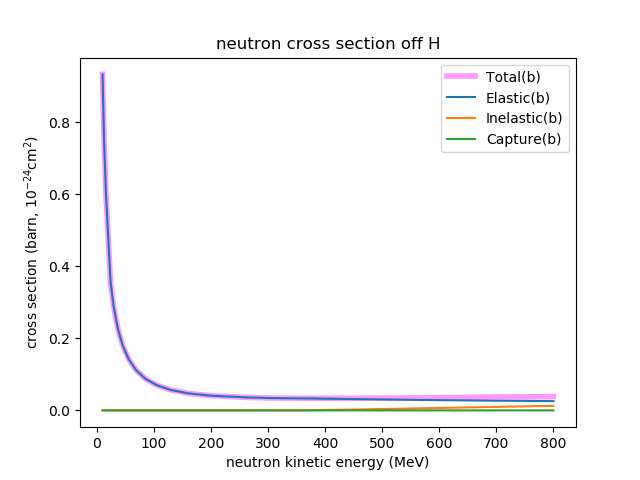
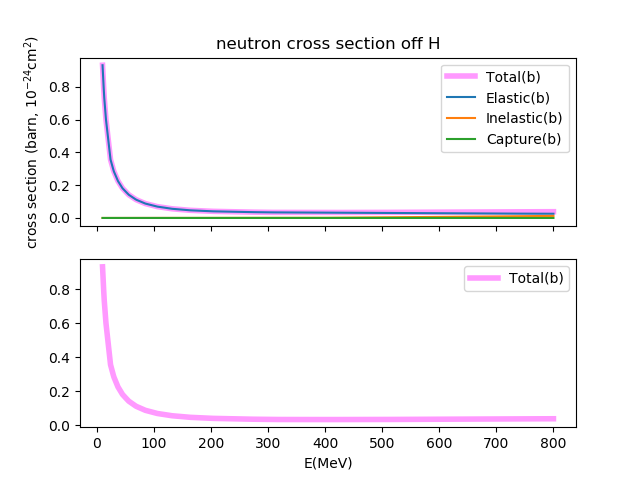
Plotting in progress.

diff --git a/plotting/make_plots.py b/plotting/make_plots.py
@@ -6,17 +6,20 @@ def compare_all(df_xsec, desc, fn):
     # ax_el = df_xsec.plot.scatter(x='E(MeV)', y='Elastic(b)', s=2, c='r', alpha=0.7, ax = ax_tot)
     # ax_inel = df_xsec.plot.scatter(x='E(MeV)', y='Inelastic(b)', s=2, c='g', alpha=0.7, ax = ax_tot)
     # ax_cap = df_xsec.plot.scatter(x='E(MeV)', y='Capture(b)', s=2, c='b', alpha=0.7, ax = ax_tot)
-    ax_tot = df_xsec.plot(x='E(MeV)', y='Total(b)', alpha=0.4, c='magenta', lw=4)
-    ax_other = df_xsec.plot(x='E(MeV)', y=['Elastic(b)','Inelastic(b)','Capture(b)'], ax=ax_tot)
-    ax_tot.set_xlabel('neutron kinetic energy (MeV)')
-    ax_tot.set_ylabel(r'cross section (barn, $10^{-24}$cm$^2$)')
-    ax_tot.set_title(desc)
+    fig, axex = plt.subplots(2, sharex=True)
+    axex[0] = df_xsec.plot(x='E(MeV)', y='Total(b)', alpha=0.4, c='magenta', lw=4, ax=axex[0])
+    df_xsec.plot(x='E(MeV)', y=['Elastic(b)','Inelastic(b)','Capture(b)'], ax=axex[0])
+    axex[0].set_xlabel('neutron kinetic energy (MeV)')
+    axex[0].set_ylabel(r'cross section (barn, $10^{-24}$cm$^2$)')
+    axex[0].set_title(desc)
+    axex[1] = df_xsec.plot(x='E(MeV)', y='Total(b)', alpha=0.4, c='magenta', lw=4, ax=axex[1])
     plt.savefig(fn)
 
 def main():
     nC_xsec = pd.read_csv('nC_FTFP_BERT.csv', sep=' ', skipinitialspace=True)
     nH_xsec = pd.read_csv('nH_FTFP_BERT.csv', sep=' ', skipinitialspace=True)
     compare_all(nH_xsec[nH_xsec['E(MeV)'] >= 10], 'neutron cross section off H', 'nH_xsec.png')
+
 
 if __name__ == '__main__':
     main()
